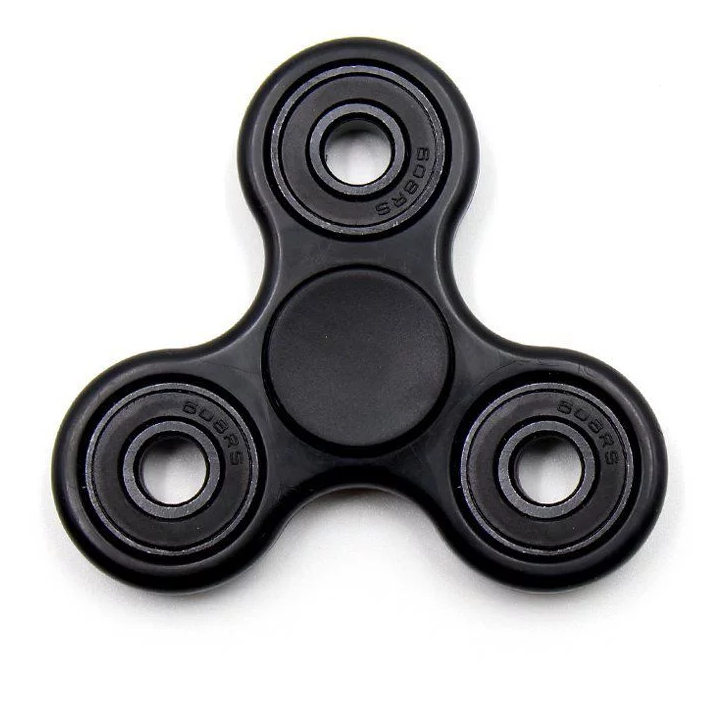
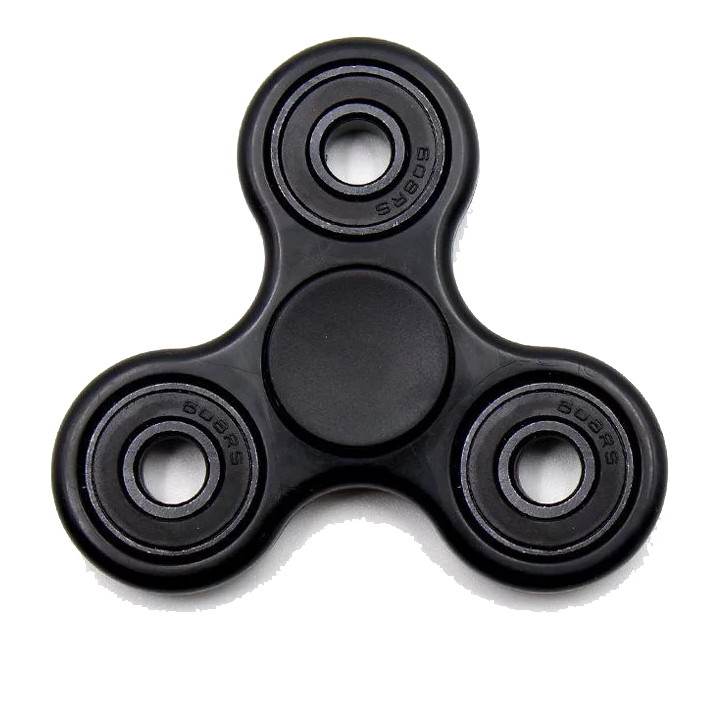
add bg trans

diff --git a/index.html b/index.html
@@ -3,6 +3,8 @@
 <head>
 	<title>Spinner</title>
 	<link rel="stylesheet" type="text/css" href="css/style.css">
+	<meta name="viewport" content="width=device-width, initial-scale=1, shrink-to-fit=no">
+	<meta charset="utf-8">
 </head>
 <body> 
 
